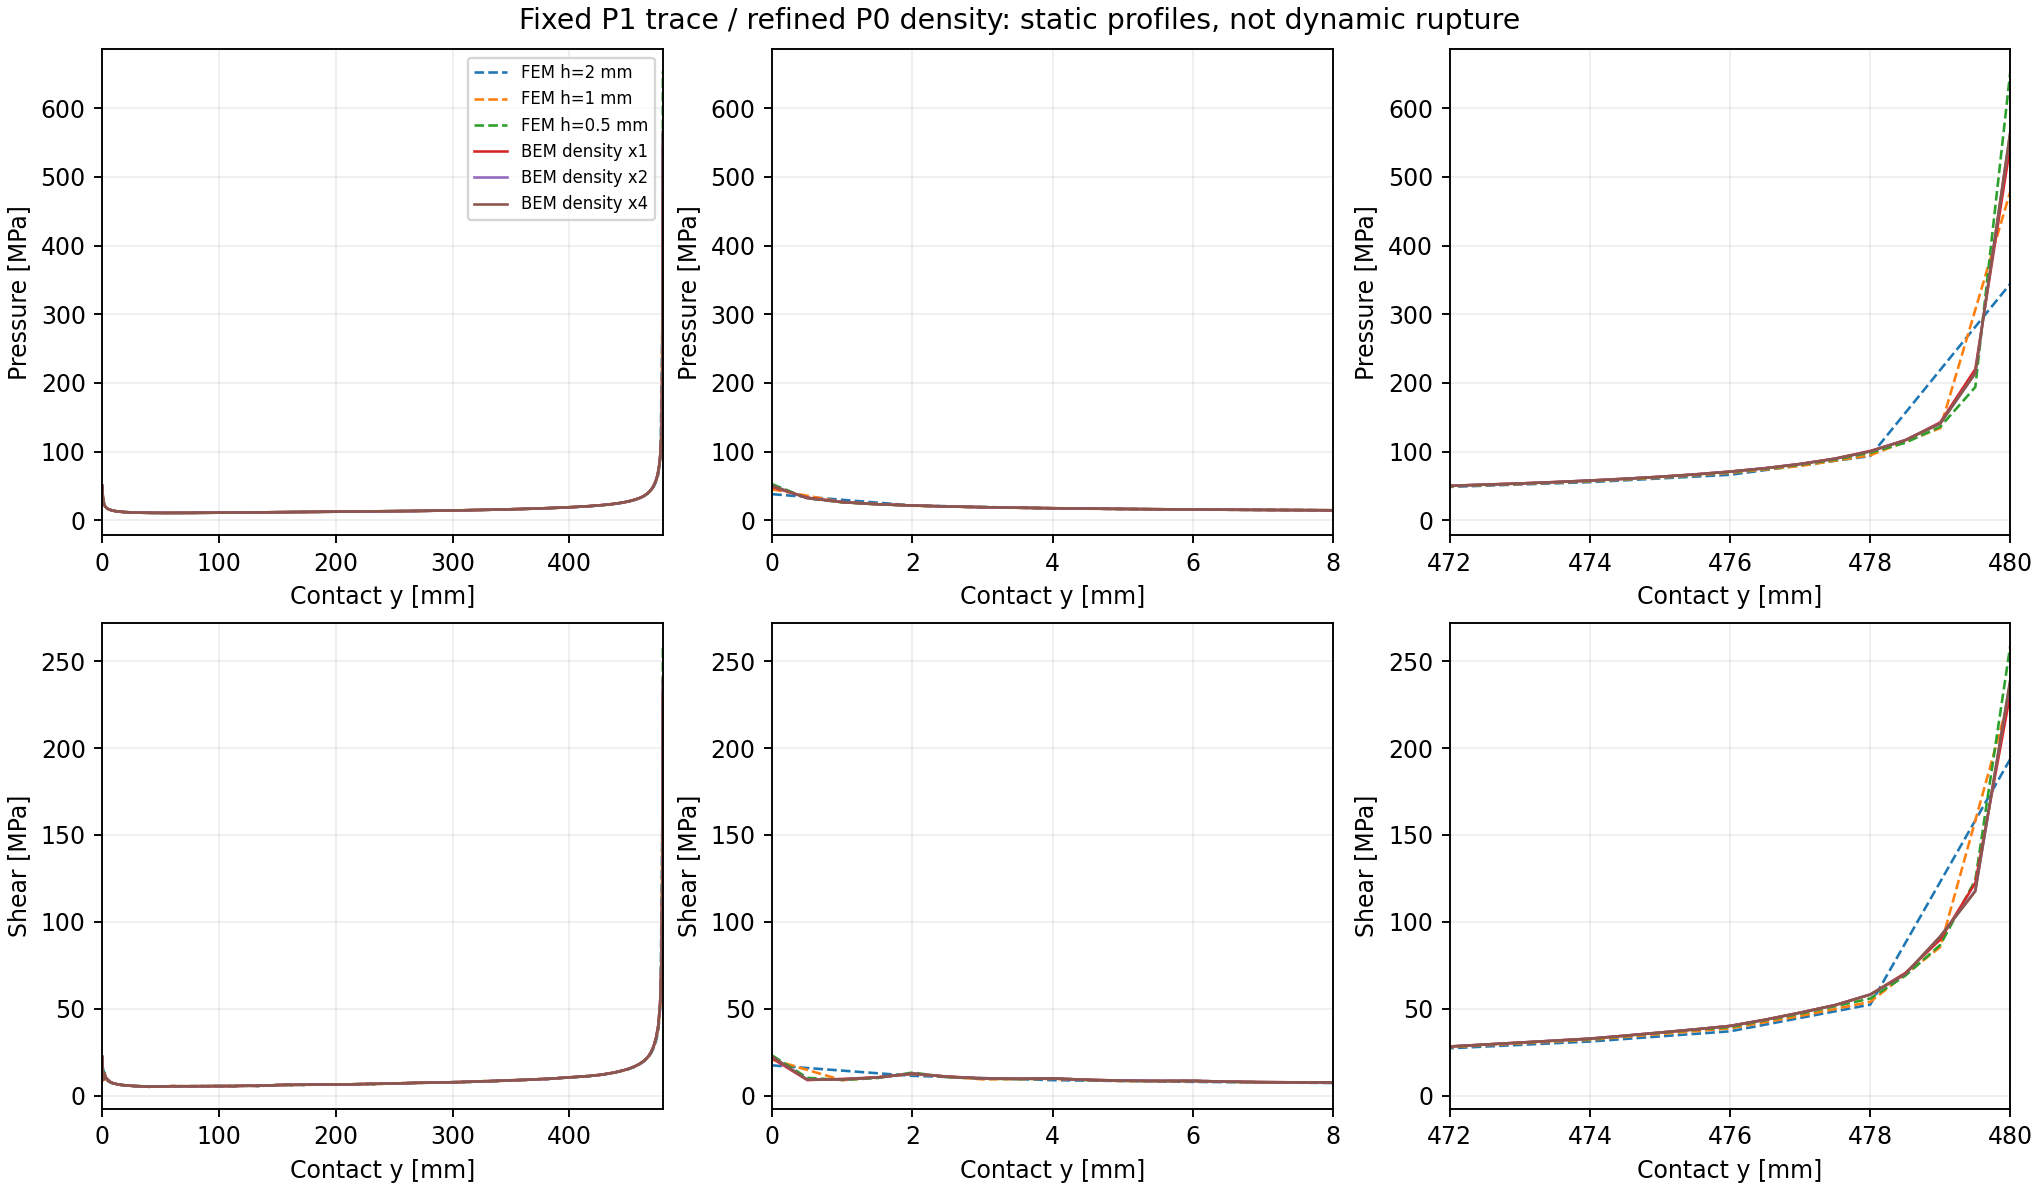
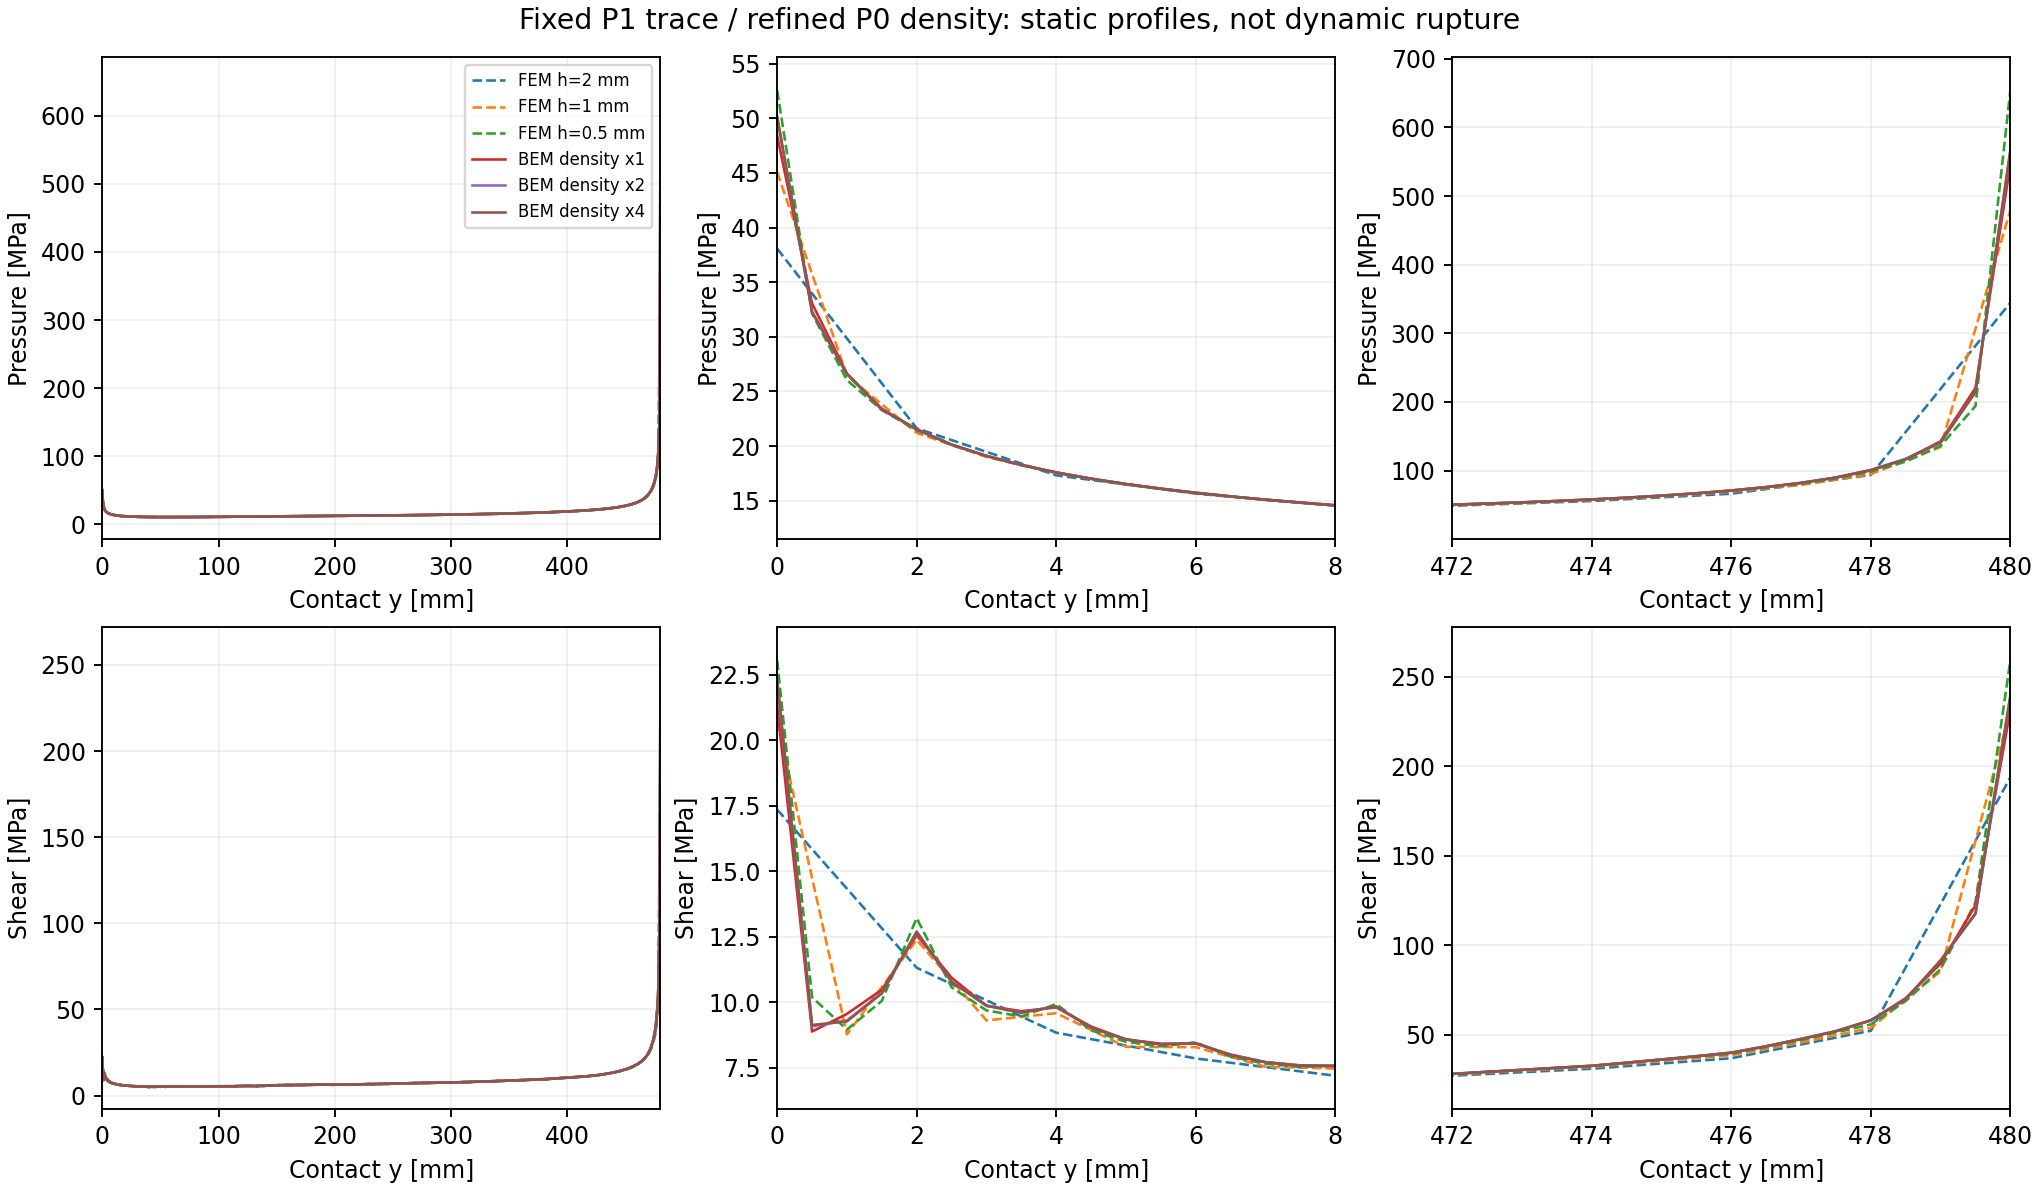
Verify Radau 6 us stage operators and clarify corner profiles

diff --git a/bem/tools/report_density_refinement.py b/bem/tools/report_density_refinement.py
@@ -161,6 +161,15 @@ def main():
                 xlabel="Contact y [mm]",
                 ylabel="Pressure [MPa]" if row == 0 else "Shear [MPa]",
             )
+            if col:
+                visible = np.concatenate(
+                    [
+                        data[field][(data["y_mm"] >= interval[0]) & (data["y_mm"] <= interval[1])]
+                        for _, data, _ in profiles
+                    ]
+                )
+                padding = max(float(np.ptp(visible)) * 0.08, 0.5)
+                ax.set_ylim(float(visible.min()) - padding, float(visible.max()) + padding)
             ax.grid(alpha=0.2)
     axes[0, 0].legend(fontsize=7)
     fig.suptitle("Fixed P1 trace / refined P0 density: static profiles, not dynamic rupture")

diff --git a/bem/docs/radau_experiment.md b/bem/docs/radau_experiment.md
@@ -70,6 +70,8 @@ Z_RK(z) = Z(Delta(z)/dt).
 550×550 stage matrices、每點兩個重新計算的275×275 BEM modes。
 最大相對差1.68e−11，通過原1e−6門檻；stage eigenvector條件數不超過1.620。
 完整頻率映射的8us目標通過原解析域guard；4us仍有目標越界，沒有放寬guard。
+6us的完整頻率映射也通過原guard，另五個完整stage矩陣的獨立新BEM核對
+最大相對差4.47e−11；每組核對均包含兩個modes，並非只比較一個stage block。
 這只是抽樣算子檢查，尚未建立完整Radau核心或完成原事件。
 
 另以Cayley–Hamilton恆等式推導可選的精確儲存表示。
@@ -91,6 +93,9 @@ Delta(z) = Delta0 + z*Delta1.
 有顯著aliasing的manufactured circle及全部causal輸出核對。
 這是兩family實作的代數驗證；尚未接到磁碟producer、完整非線性runner或adjoint，
 也沒有將理論上減半的矩陣元素數列為已量測的記憶體／速度優勢。
+這組數值實作的Python3.11／3.12完整CI已通過；本機相關20項測試通過。
+下一個動態實驗仍需先把兩family表示接到磁碟權重、完整因果startup、
+耦合stage接觸與轉置歷史，再以原事件核對精度與完整成本。
 
 ## 重跑
 
